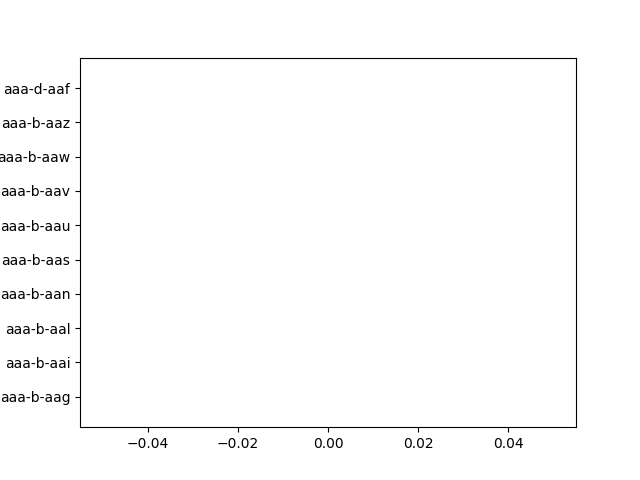
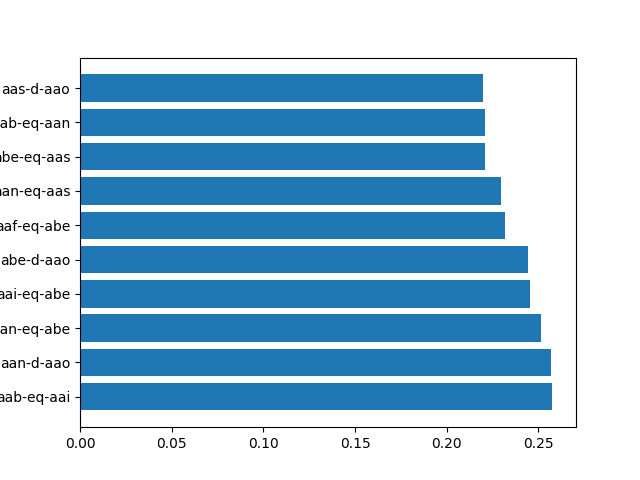
IAD tweaking for BlockMoving

diff --git a/itr_interpreter.py b/itr_interpreter.py
@@ -27,7 +27,7 @@ from itr_sklearn import ITR_Extractor
 
 
 
-def f_importances(coef, names, top=10):
+def f_importances(coef, names, top=20):
 	print(type(coef), len(names))
 	print(coef)
 
